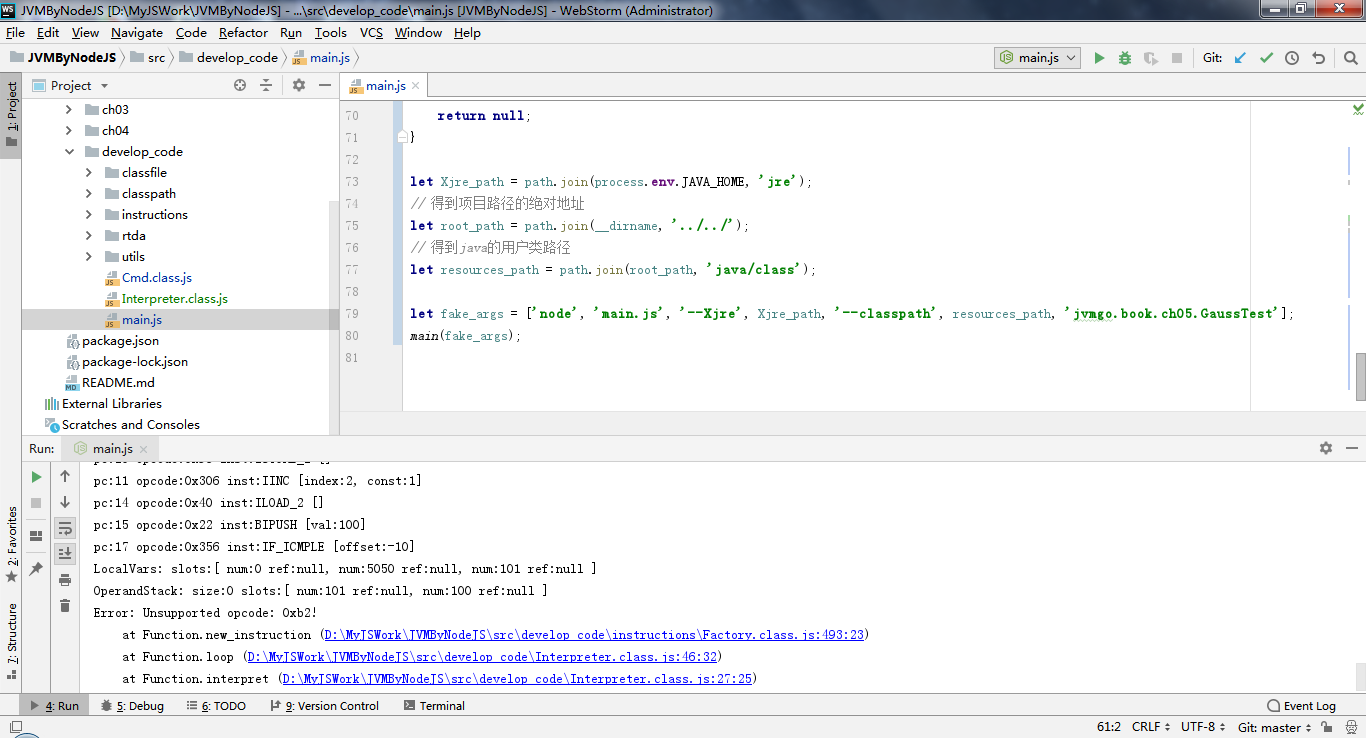
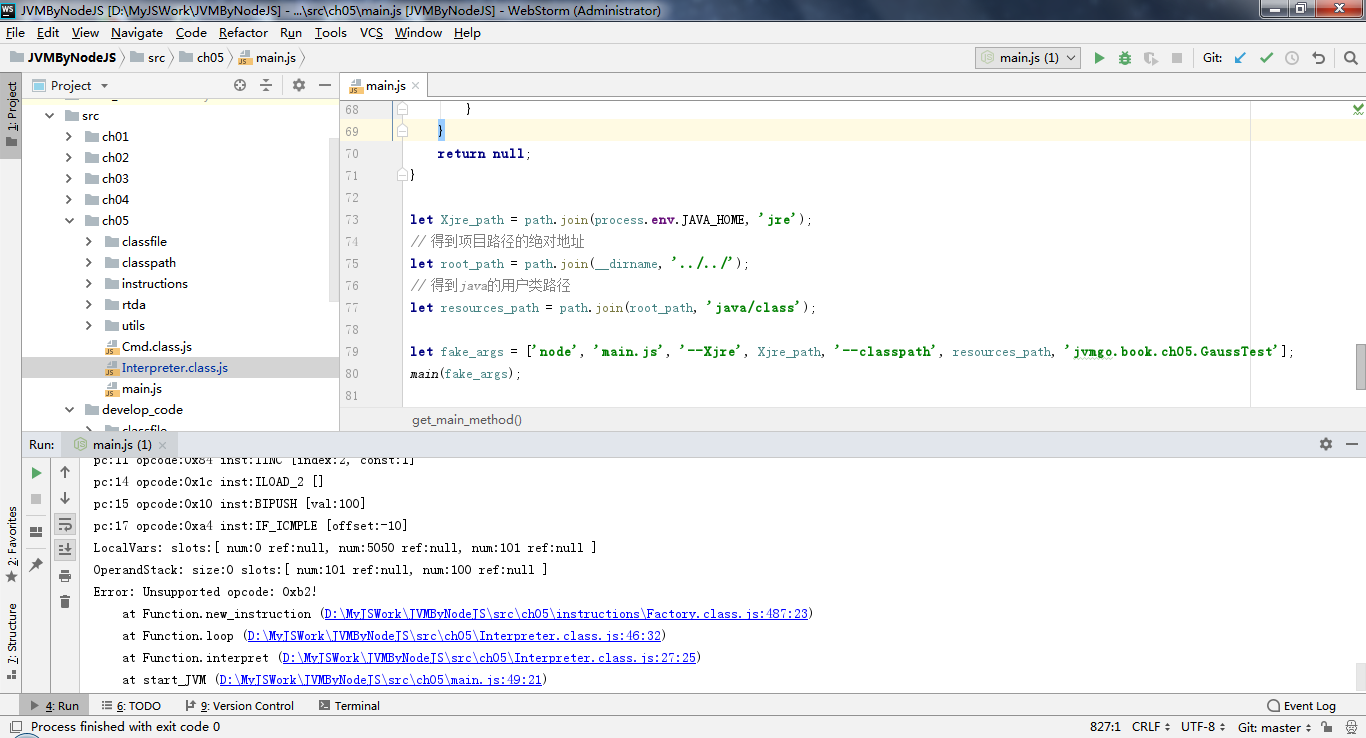
修改打印操作码信息

diff --git a/src/ch05/instructions/Factory.class.js b/src/ch05/instructions/Factory.class.js
@@ -204,7 +204,6 @@ class Factory {
             case 0x11:
                 return new SIPUSH();
 
-            // TODO:
             case 0x15:
                 return new ILOAD();
             case 0x16:
@@ -256,7 +255,6 @@ class Factory {
             case 0x2d:
                 return new ALOAD_3();
 
-            // TODO:
             case 0x36:
                 return new ISTORE();
             case 0x37:
@@ -308,7 +306,6 @@ class Factory {
             case 0x4e:
                 return new ASTORE_3();
 
-            // TODO:
             case 0x57:
                 return new POP();
             case 0x58:
@@ -472,17 +469,14 @@ class Factory {
             case 0xa7:
                 return new GOTO();
 
-            // TODO:
             case 0xaa:
                 return new TABLE_SWITCH();
             case 0xab:
                 return new LOOKUP_SWITCH();
 
-            // TODO:
             case 0xc4:
                 return new WIDE();
 
-            // TODO:
             case 0xc6:
                 return new IFNULL();
             case 0xc7:

diff --git a/src/ch05/Interpreter.class.js b/src/ch05/Interpreter.class.js
@@ -47,7 +47,7 @@ class Interpreter {
             inst.fetch_operands(reader);
             frame.next_pc = reader.pc;
 
-            console.log("pc:{0} opcode:0x{1} inst:{2} [{3}]".format(pc, parseInt(opcode, 16), inst.constructor.name,
+            console.log("pc:{0} opcode:0x{1} inst:{2} [{3}]".format(pc, opcode.toString(16), inst.constructor.name,
                 Interpreter.print_obj(inst)));
             inst.execute(frame);
         }

diff --git a/src/develop_code/Interpreter.class.js b/src/develop_code/Interpreter.class.js
@@ -47,7 +47,7 @@ class Interpreter {
             inst.fetch_operands(reader);
             frame.next_pc = reader.pc;
 
-            console.log("pc:{0} opcode:0x{1} inst:{2} [{3}]".format(pc, parseInt(opcode, 16), inst.constructor.name,
+            console.log("pc:{0} opcode:0x{1} inst:{2} [{3}]".format(pc, opcode.toString(16), inst.constructor.name,
                 Interpreter.print_obj(inst)));
             inst.execute(frame);
         }
